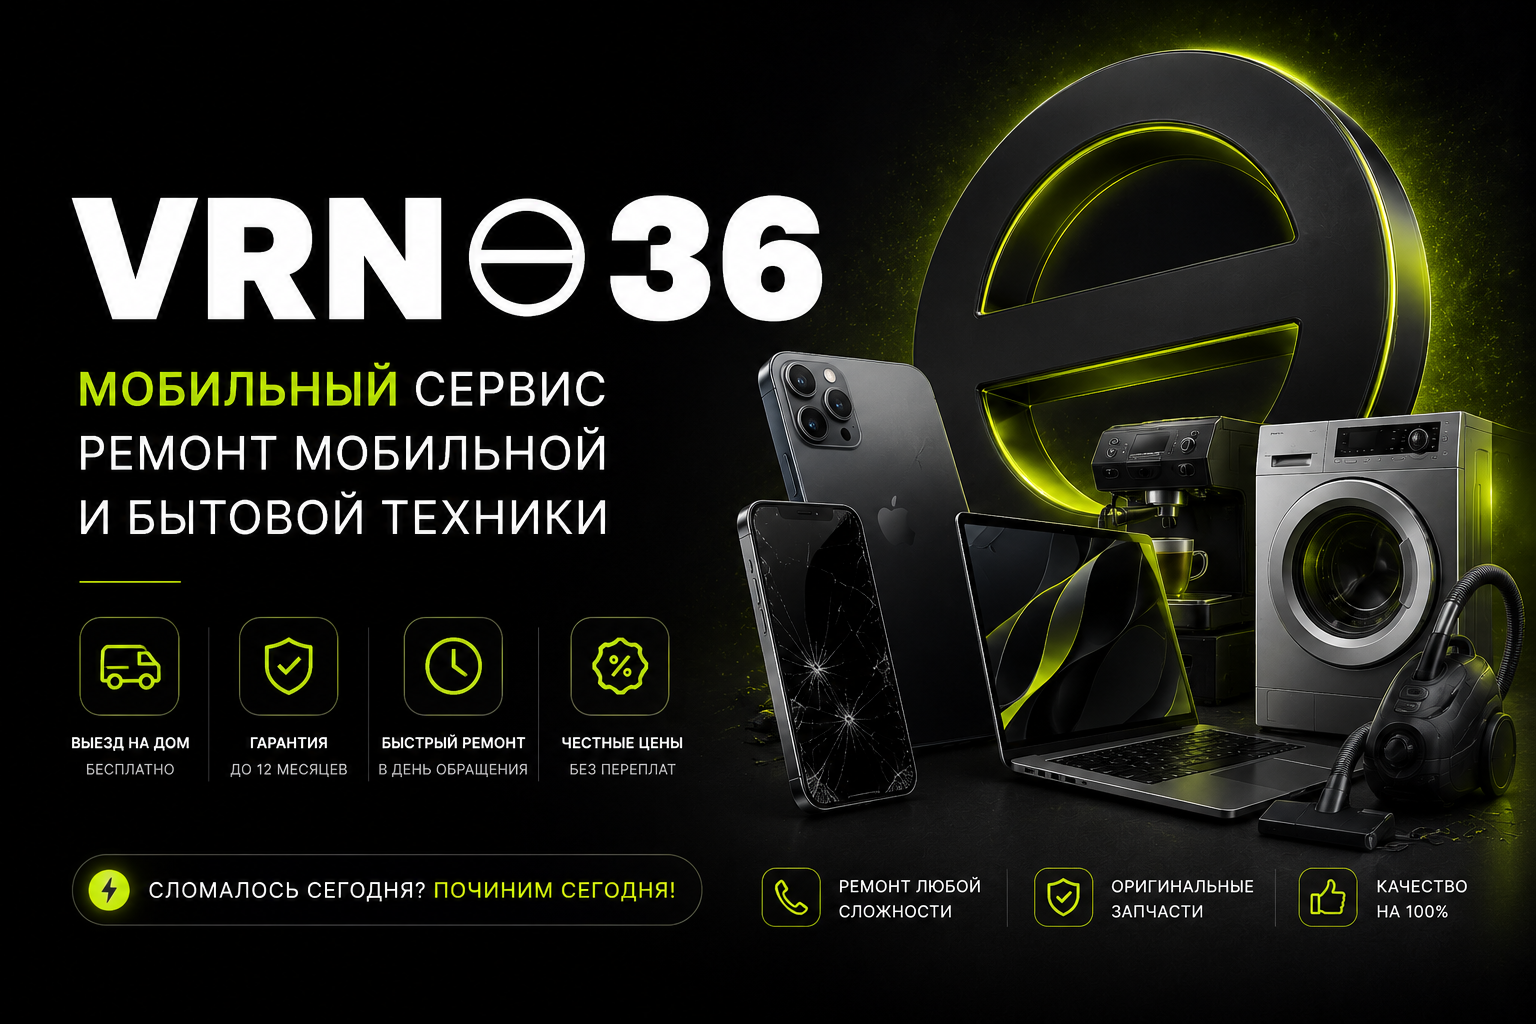
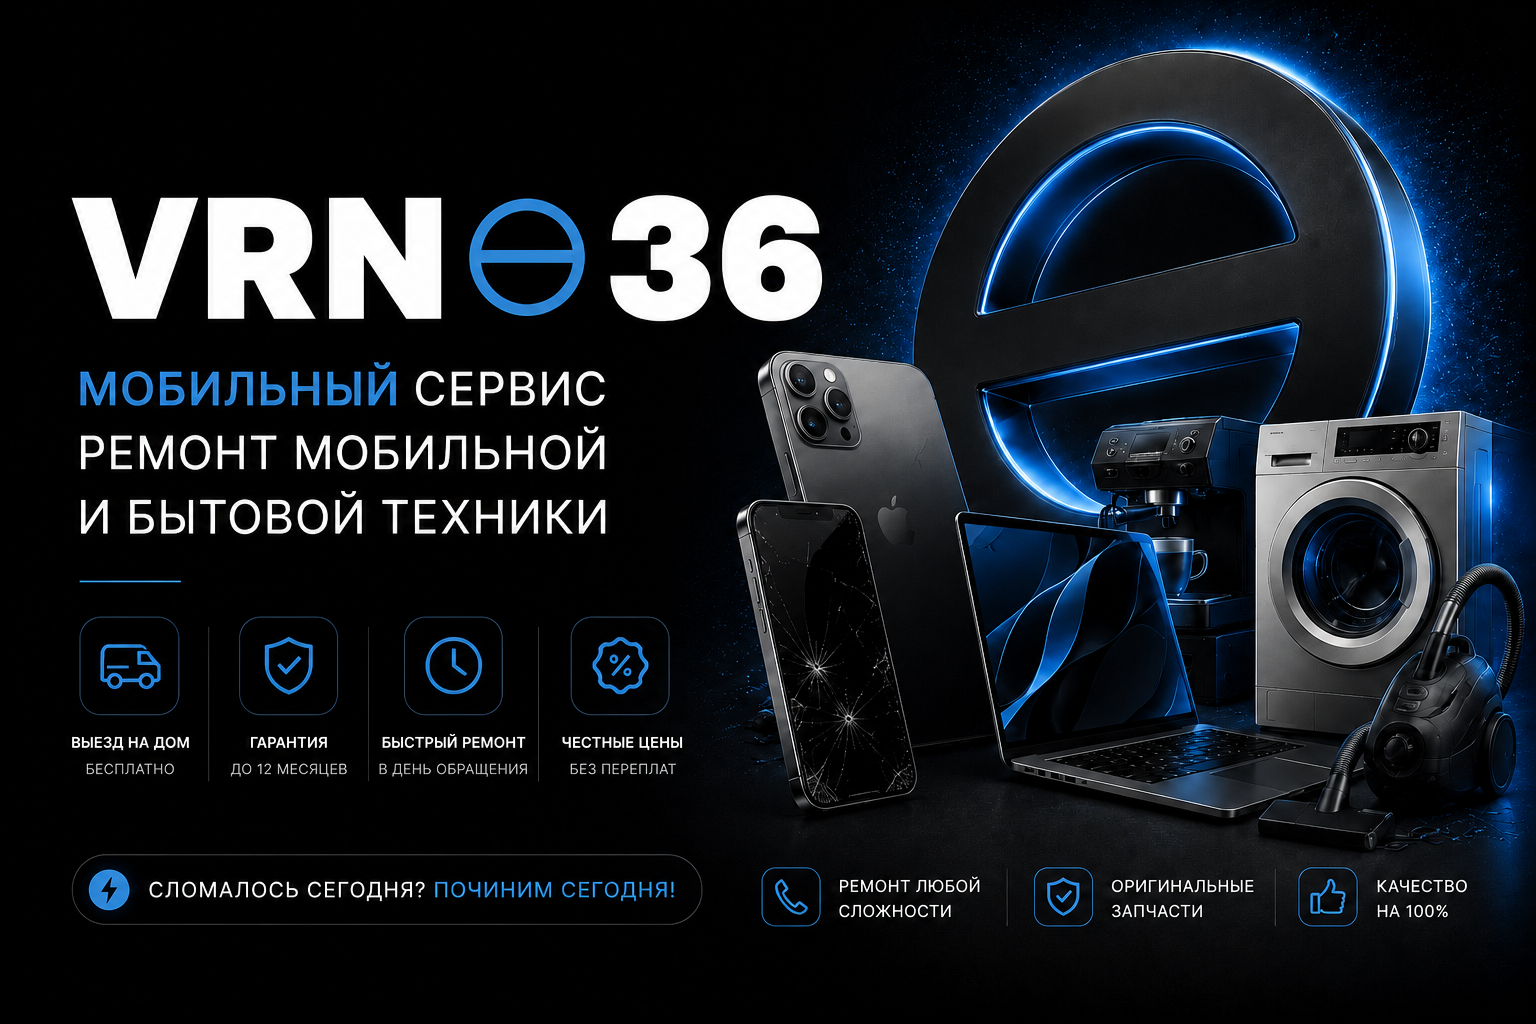
Новый og-image, фикс пустого места на главной, логин админки vrn36
- og-image заменён на новый баннер (1536×1024)
- Карусель новостей на главной: убран reveal — контент грузится async
  после отработки observer'а, из-за чего секция висела пустой (opacity 0)
- Админка: вход по логину «vrn36» (маппится на внутренний email),
  пароль обновлён; RLS владельца переключён на новый email

diff --git a/src/features/admin/AdminPage.tsx b/src/features/admin/AdminPage.tsx
@@ -25,7 +25,7 @@ const empty: PostInput = {
 };
 
 function LoginForm() {
-  const [email, setEmail] = useState("");
+  const [login, setLogin] = useState("");
   const [password, setPassword] = useState("");
   const [error, setError] = useState("");
   const [busy, setBusy] = useState(false);
@@ -35,9 +35,11 @@ function LoginForm() {
     if (!supabase) return;
     setBusy(true);
     setError("");
+    const value = login.trim();
+    const email = value.includes("@") ? value : `${value}@vrn36.ru`;
     const { error } = await supabase.auth.signInWithPassword({ email, password });
     setBusy(false);
-    if (error) setError("Неверный email или пароль");
+    if (error) setError("Неверный логин или пароль");
   };
 
   return (
@@ -48,7 +50,7 @@ function LoginForm() {
       <h1 className="mt-6 text-2xl font-semibold text-white">Вход в админку</h1>
       <p className="mt-2 text-sm text-slate-400">Управление блогом VRN-36.</p>
       <form className="mt-6 grid gap-3" onSubmit={submit}>
-        <input className="input" type="email" placeholder="Email" value={email} onChange={(e) => setEmail(e.target.value)} required />
+        <input className="input" type="text" placeholder="Логин" value={login} onChange={(e) => setLogin(e.target.value)} required autoCapitalize="none" autoCorrect="off" />
         <input className="input" type="password" placeholder="Пароль" value={password} onChange={(e) => setPassword(e.target.value)} required />
         {error && <p className="text-sm text-red-400">{error}</p>}
         <button type="submit" className="btn btn-primary btn-lg w-full" disabled={busy}>

diff --git a/src/features/blog/BlogCarousel.tsx b/src/features/blog/BlogCarousel.tsx
@@ -32,7 +32,7 @@ export function BlogCarousel() {
 
   return (
     <section id="news" className="mx-auto max-w-7xl px-5 py-24 sm:px-6 lg:px-8 lg:py-32">
-      <div className="reveal flex flex-col justify-between gap-6 md:flex-row md:items-end">
+      <div className="flex flex-col justify-between gap-6 md:flex-row md:items-end">
         <div>
           <div className="eyebrow mb-5">Новости и советы</div>
           <h2 className="heading max-w-3xl text-balance text-3xl font-semibold text-white sm:text-4xl lg:text-5xl">
@@ -56,7 +56,7 @@ export function BlogCarousel() {
         </div>
       </div>
 
-      <div ref={trackRef} className="carousel-track reveal mt-12">
+      <div ref={trackRef} className="carousel-track mt-12">
         {posts.map((post) => (
           <article key={post.id} data-card className="carousel-card card card-interactive flex flex-col overflow-hidden p-0">
             {post.coverUrl && (